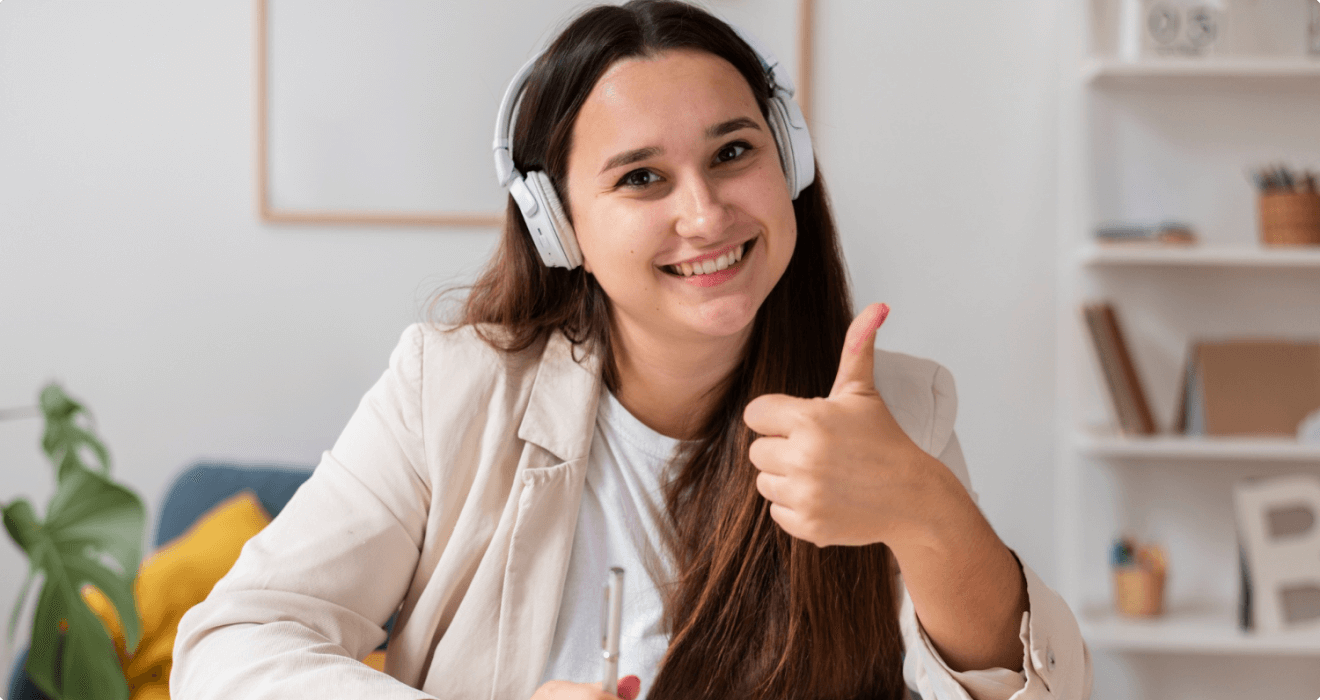
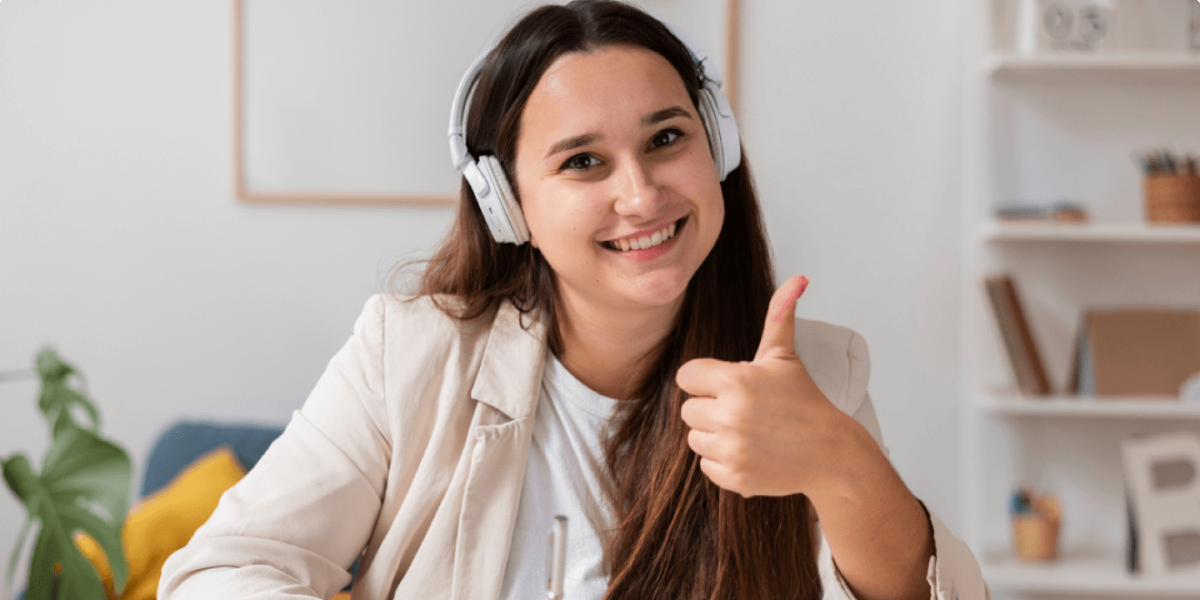
nav and slider added

Changed region(s): [[0.0, 0.06, 1.0, 1.0], [0.925, 0.24, 1.0, 0.3]]

diff --git a/index.html b/index.html
@@ -5,6 +5,191 @@
       <meta http-equiv="X-UA-Compatible" content="IE=edge" />
       <meta name="viewport" content="width=device-width, initial-scale=1.0" />
       <title>Digital Context & Tech Learning Platform</title>
+      <!-- bootstrap css link -->
+      <link
+         href="https://cdn.jsdelivr.net/npm/bootstrap@5.2.0/dist/css/bootstrap.min.css"
+         rel="stylesheet"
+         integrity="sha384-gH2yIJqKdNHPEq0n4Mqa/HGKIhSkIHeL5AyhkYV8i59U5AR6csBvApHHNl/vI1Bx"
+         crossorigin="anonymous"
+      />
+      <!-- css link -->
+      <link rel="stylesheet" href="style.css" />
    </head>
-   <body></body>
+   <body>
+      <!-- header section -->
+      <header>
+         <div>
+            <nav
+               class="navbar pb-0 navbar-expand-lg bg-light"
+               style="background-color: #d9e9f4 !important"
+            >
+               <div class="container">
+                  <h1>
+                     <a class="navbar-brand" href="#"
+                        ><img
+                           src="images/logo/logo.png"
+                           alt=""
+                           width="60"
+                           height="60"
+                     /></a>
+                  </h1>
+                  <button
+                     class="navbar-toggler"
+                     type="button"
+                     data-bs-toggle="collapse"
+                     data-bs-target="#navbarScroll"
+                     aria-controls="navbarScroll"
+                     aria-expanded="false"
+                     aria-label="Toggle navigation"
+                  >
+                     <span class="navbar-toggler-icon"></span>
+                  </button>
+                  <div class="collapse navbar-collapse" id="navbarScroll">
+                     <ul
+                        class="navbar-nav me-auto ms-lg-auto fs-5 fw-semibold my-2 my-lg-0 navbar-nav-scroll"
+                        style="--bs-scroll-height: 100px"
+                     >
+                        <li class="nav-item">
+                           <a class="nav-link" aria-current="page" href="#"
+                              >Home</a
+                           >
+                        </li>
+                        <li class="nav-item ms-lg-3">
+                           <a class="nav-link" aria-current="page" href="#"
+                              >Courses</a
+                           >
+                        </li>
+                        <li class="nav-item ms-lg-3">
+                           <a class="nav-link" aria-current="page" href="#"
+                              >Deals</a
+                           >
+                        </li>
+                        <li class="nav-item ms-lg-3">
+                           <a class="nav-link" aria-current="page" href="#"
+                              >success</a
+                           >
+                        </li>
+
+                        <li class="nav-item ms-lg-3">
+                           <a class="nav-link" aria-current="page" href="#"
+                              >Contact us</a
+                           >
+                        </li>
+                        <li class="nav-item ms-lg-3">
+                           <a class="nav-link" aria-current="page" href="#"
+                              >Register</a
+                           >
+                        </li>
+                     </ul>
+                     <form class="d-flex" role="search">
+                        <button
+                           class="btn btn-outline-primary px-4"
+                           type="submit"
+                        >
+                           Register
+                        </button>
+                     </form>
+                  </div>
+               </div>
+            </nav>
+         </div>
+         <!-- slider section -->
+         <section class="container mt-3">
+            <div
+               id="carouselExampleInterval"
+               class="carousel slide"
+               data-bs-ride="carousel"
+            >
+               <div class="carousel-inner">
+                  <div class="carousel-item active" data-bs-interval="10000">
+                     <img
+                        src="images/cover/cover-1.png"
+                        class="d-block w-100 slider-img"
+                        alt="..."
+                     />
+                     <div class="carousel-caption d-block h-50">
+                        <h1>Get Started Digital Learning</h1>
+                        <p>
+                           It is a long established fact that a reader will be
+                           distracted by the readable content of a page when
+                           looking at its layout.
+                        </p>
+                        <div class="btn btn-primary">Get Started</div>
+                     </div>
+                  </div>
+                  <div class="carousel-item" data-bs-interval="2000">
+                     <img
+                        src="images/cover/cover-2.png"
+                        class="d-block w-100 slider-img"
+                        alt="..."
+                     />
+                     <div class="carousel-caption d-block h-50">
+                        <h1>Get Started Digital Learning</h1>
+                        <p>
+                           It is a long established fact that a reader will be
+                           distracted by the readable content of a page when
+                           looking at its layout.
+                        </p>
+                        <div class="btn btn-primary">Get Started</div>
+                     </div>
+                  </div>
+                  <div class="carousel-item">
+                     <img
+                        src="images/cover/cover-3.png"
+                        class="d-block w-100 slider-img"
+                        alt="..."
+                     />
+                     <div class="carousel-caption d-block h-50">
+                        <h1>Get Started Digital Learning</h1>
+                        <p>
+                           It is a long established fact that a reader will be
+                           distracted by the readable content of a page when
+                           looking at its layout.
+                        </p>
+                        <div class="btn btn-primary">Get Started</div>
+                     </div>
+                  </div>
+               </div>
+               <button
+                  class="carousel-control-prev"
+                  type="button"
+                  data-bs-target="#carouselExampleInterval"
+                  data-bs-slide="prev"
+               >
+                  <span
+                     class="carousel-control-prev-icon"
+                     aria-hidden="true"
+                  ></span>
+                  <span class="visually-hidden">Previous</span>
+               </button>
+               <button
+                  class="carousel-control-next"
+                  type="button"
+                  data-bs-target="#carouselExampleInterval"
+                  data-bs-slide="next"
+               >
+                  <span
+                     class="carousel-control-next-icon"
+                     aria-hidden="true"
+                  ></span>
+                  <span class="visually-hidden">Next</span>
+               </button>
+            </div>
+         </section>
+      </header>
+      <!-- body section -->
+      <main>
+         <div></div>
+      </main>
+      <!-- footer section -->
+      <footer>
+         <div></div>
+      </footer>
+      <!-- bootstrap js link -->
+      <script
+         src="https://cdn.jsdelivr.net/npm/bootstrap@5.2.0/dist/js/bootstrap.bundle.min.js"
+         integrity="sha384-A3rJD856KowSb7dwlZdYEkO39Gagi7vIsF0jrRAoQmDKKtQBHUuLZ9AsSv4jD4Xa"
+         crossorigin="anonymous"
+      ></script>
+   </body>
 </html>

diff --git a/style.css b/style.css
@@ -1,0 +1,3 @@
+.slider-img {
+    filter: brightness(50%);
+}
